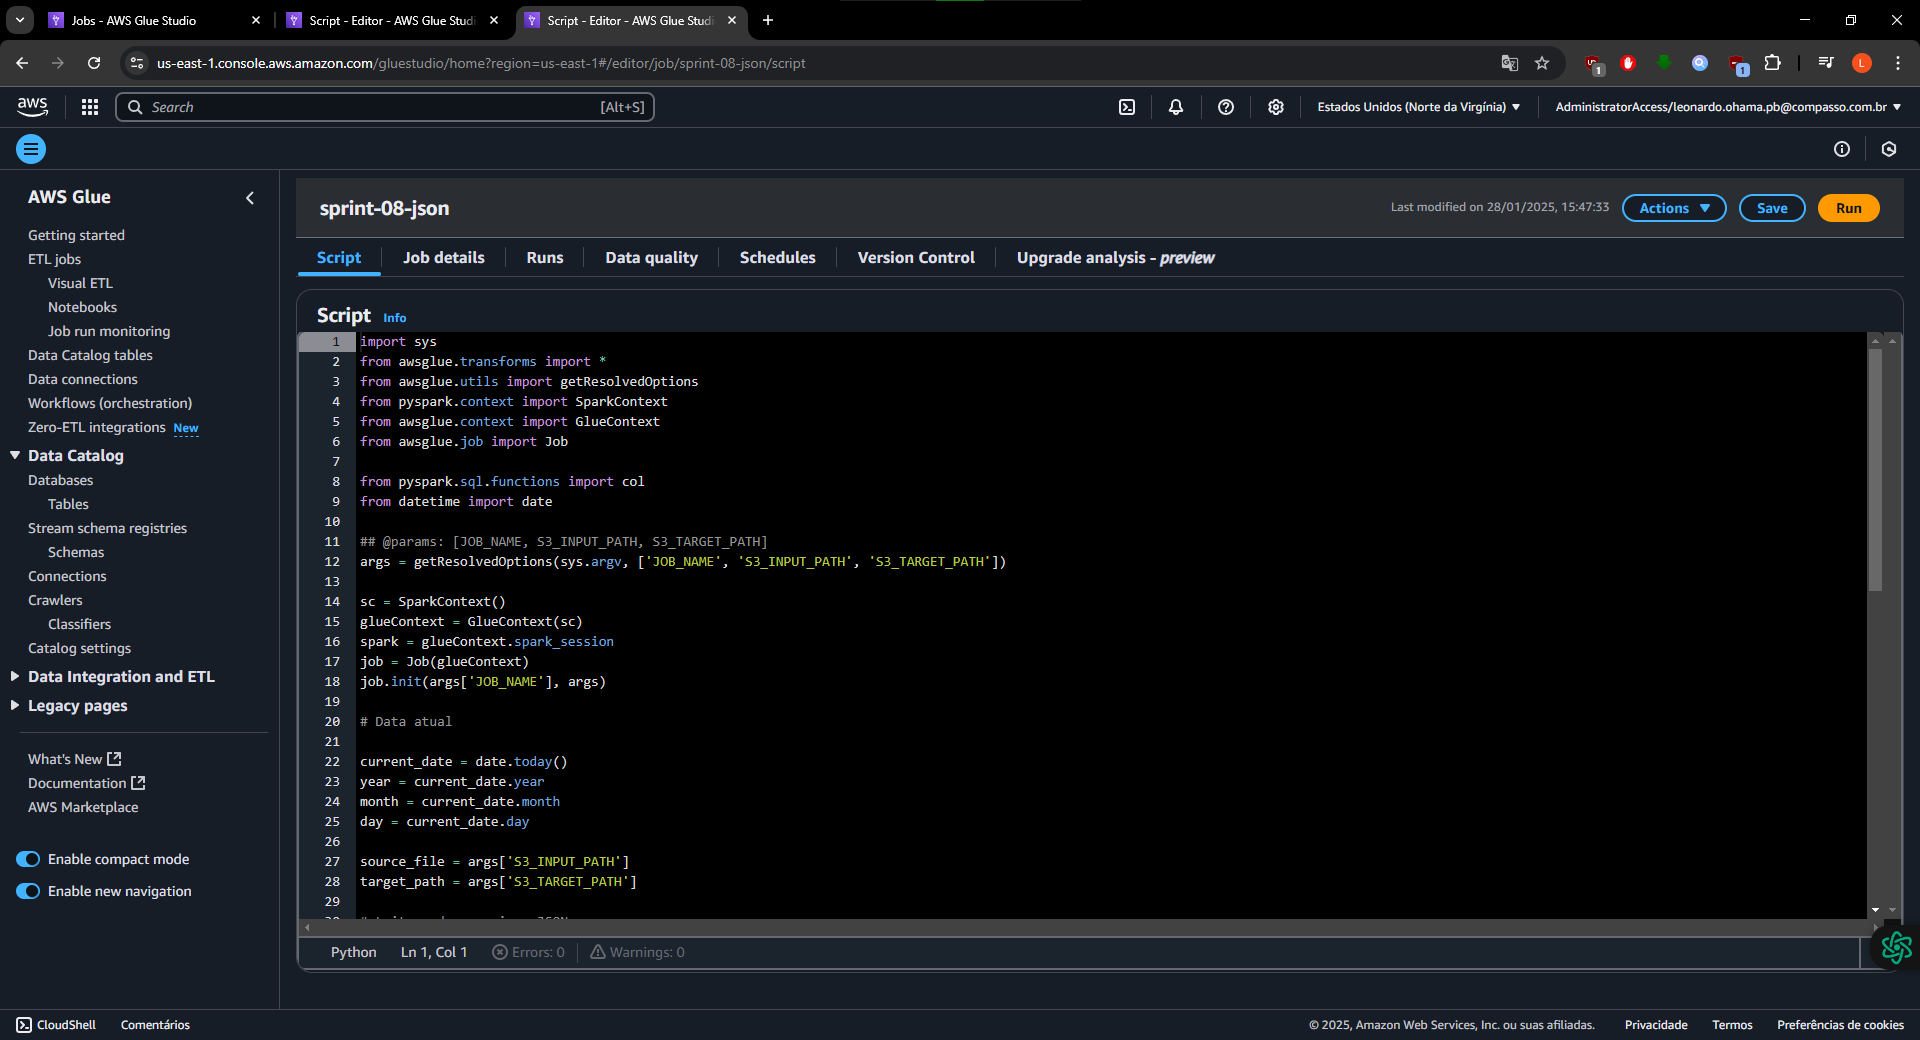
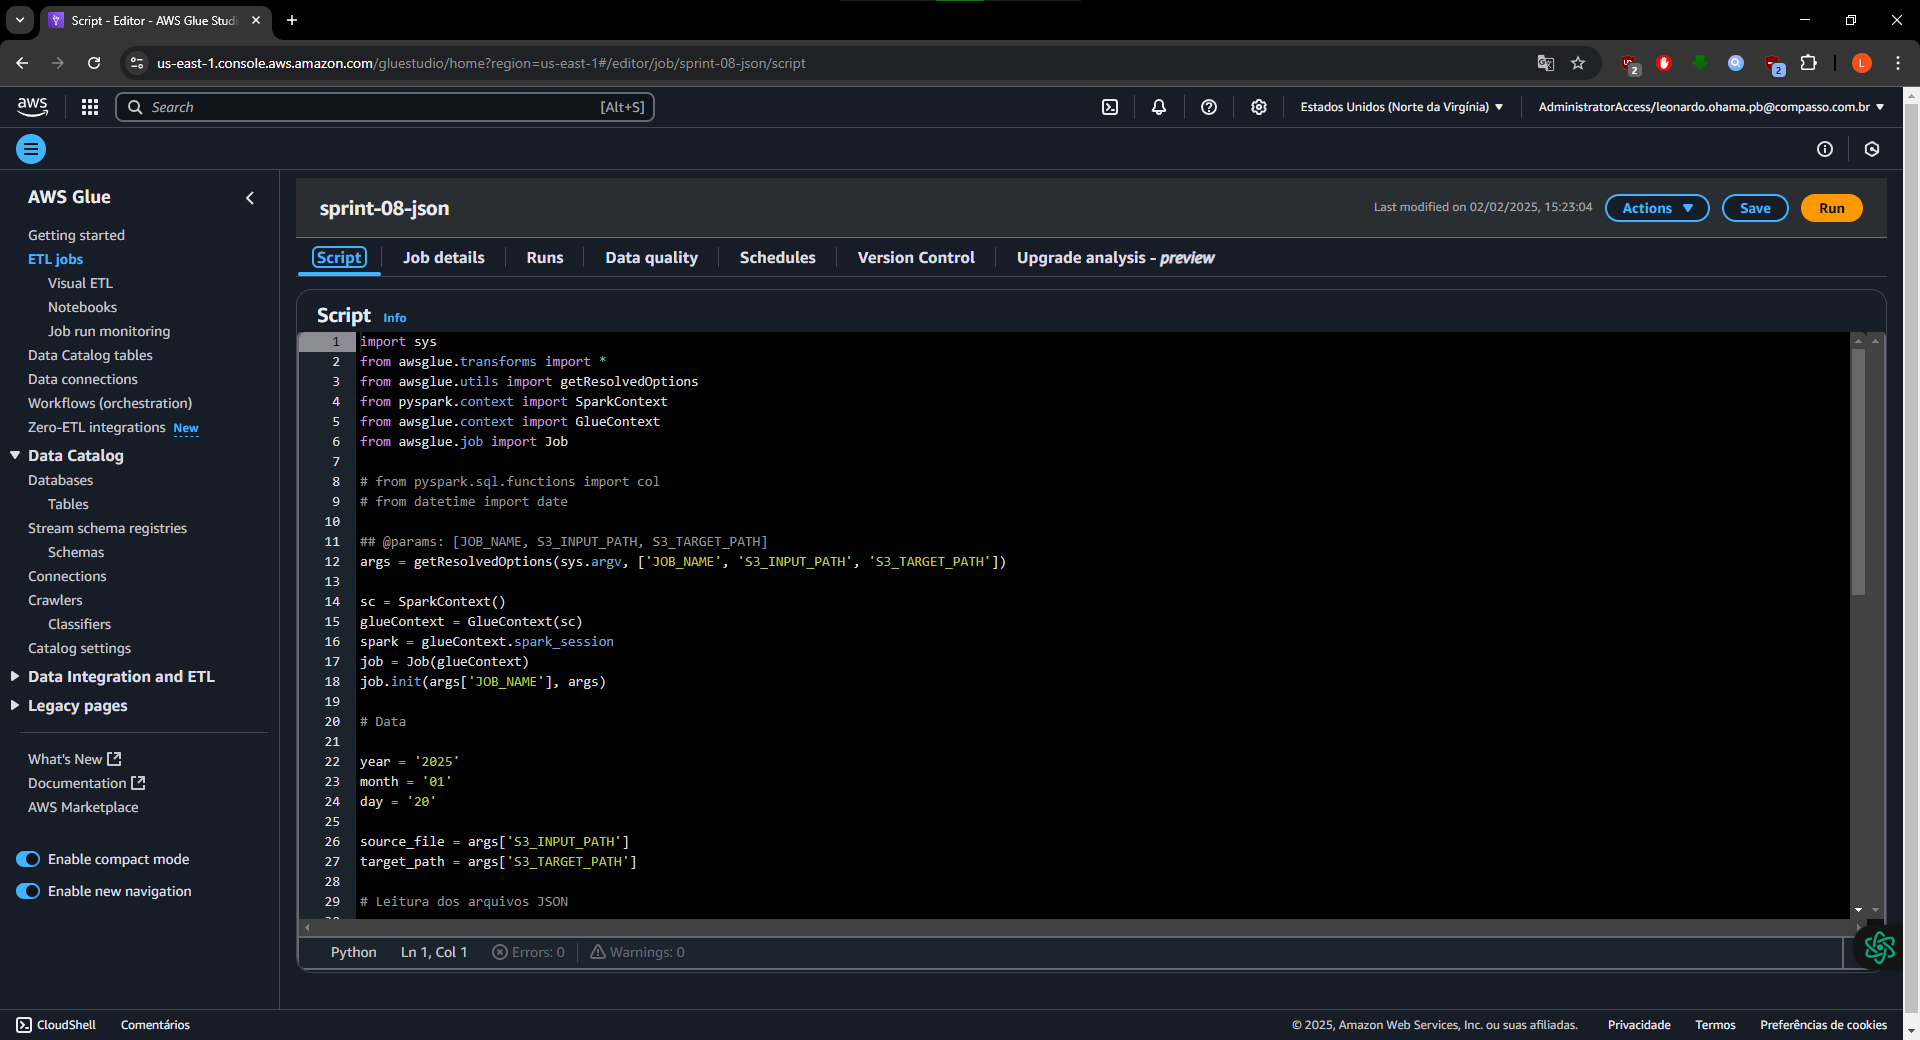
Atualizacao Sprint 08

diff --git a/Sprint 8/Desafio/scripts/script_trusted.json_glue.py b/Sprint 8/Desafio/scripts/script_trusted.json_glue.py
@@ -6,7 +6,7 @@ from awsglue.context import GlueContext
 from awsglue.job import Job
 
 # from pyspark.sql.functions import col
-from datetime import date
+# from datetime import date
 
 ## @params: [JOB_NAME, S3_INPUT_PATH, S3_TARGET_PATH]
 args = getResolvedOptions(sys.argv, ['JOB_NAME', 'S3_INPUT_PATH', 'S3_TARGET_PATH'])
@@ -17,12 +17,11 @@ spark = glueContext.spark_session
 job = Job(glueContext)
 job.init(args['JOB_NAME'], args)
 
-# Data atual
+# Data
 
-current_date = date.today()
-year = current_date.year
-month = current_date.month
-day = current_date.day
+year = '2025'
+month = '01'
+day = '20'
 
 source_file = args['S3_INPUT_PATH']
 target_path = args['S3_TARGET_PATH']

diff --git a/Sprint 8/Desafio/README.md b/Sprint 8/Desafio/README.md
@@ -210,7 +210,19 @@ Explicação do desenvolvimento da extração dos dados dos filmes pela API TMDB
 
     ![Evidência](../Evidencias/Desafio/ETAPA4_4_-_CRAWLER_CSV_TABELA.png)
 
+    ![Evidência](../Evidencias/Desafio/ETAPA4_4_-_CRAWLER_CSV_TABELA_2.png)
+
+    ![Evidência](../Evidencias/Desafio/ETAPA4_4_-_CRAWLER_CSV_TABELA_3.png)
+
+    ![Evidência](../Evidencias/Desafio/ETAPA4_4_-_CRAWLER_CSV_TABELA_4.png)
+
+    Para o arquivo parquet JSON:
+
     ![Evidência](../Evidencias/Desafio/ETAPA4_5_-_CRAWLER_JSON_TABELA.png)
+
+    ![Evidência](../Evidencias/Desafio/ETAPA4_5_-_CRAWLER_JSON_TABELA_2.png)
+
+    ![Evidência](../Evidencias/Desafio/ETAPA4_5_-_CRAWLER_JSON_TABELA_3.png)
 
 [**Voltar ao Sumário**](#sumário)
 
@@ -225,6 +237,8 @@ Explicação do desenvolvimento da extração dos dados dos filmes pela API TMDB
     III. A coluna do csv estava com a grafia errada "tituloPincipal", então foi renomeado para "tituloPrincipal".
 
     IV. Existe também valores como \\N e null em alguns valores, porém foi decidido manter por enquanto até se caso afete a análise será trocado posteriormente, possivelmente vai ser exclusivamente utilizados os dados da API do TMDB, principalmente porque vai ser feito uma análise de votos (votos no CSV estão desatualizados), budget e revenue.
+
+    V. Será analisado apenas os filmes, sendo assim, foi feito o processamento dos dados apenas do arquivo movies.csv.
 
 [**Voltar ao Sumário**](#sumário)
 
